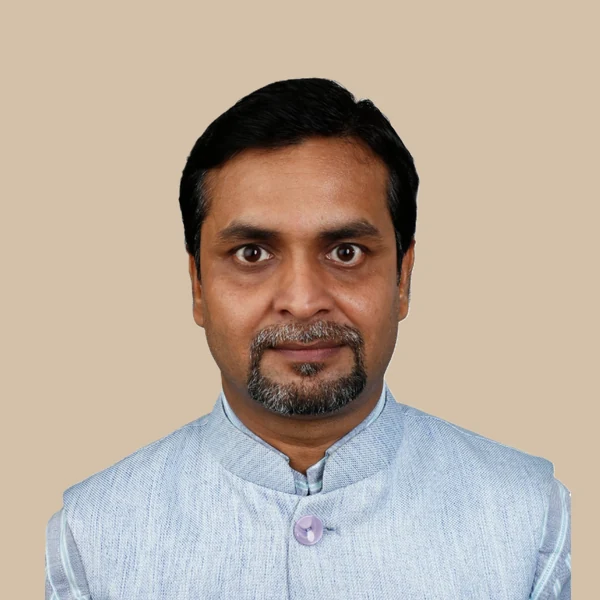
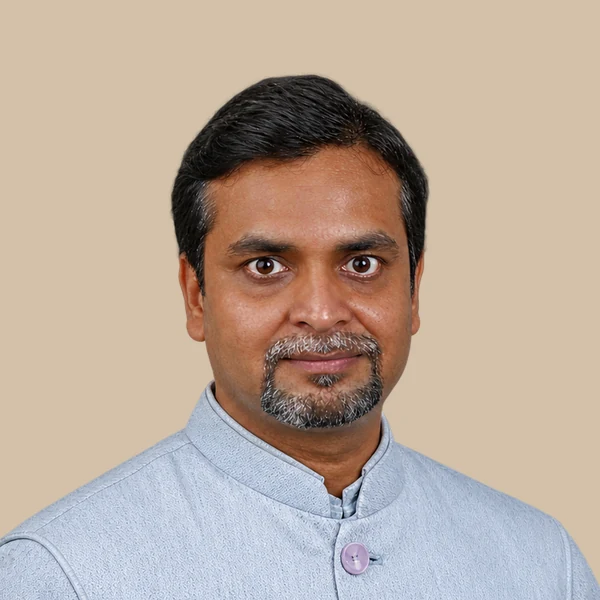
Match strategic growth partner portraits

Changed region(s): [[0.0, 0.12, 1.0, 1.0]]

diff --git a/tools/team/photos.py b/tools/team/photos.py
@@ -37,7 +37,8 @@ CROPS = []
 TUNE = {"rahul-hingmire": (0.92, 0.0, 0.0),
         "sakshay-upadhyay": (1.12, 0.0, 0.0), "karan-shah": (1.08, 0.0, 0.0), "mehak-gupta": (0.78, 0.0, 0.0),
         "dhwani-joshi": (2.4, 0.09, 0.0), "dale-galbano": (1.15, 0.0, 0.0), "sneha-lakra": (1.1, 0.0, 0.0),
-        "siddarth-menon": (1.08, 0.0, 0.0)}
+        "siddarth-menon": (1.08, 0.0, 0.0),
+        "s-robin": (1.0, -0.011, 0.001), "sandeep-agrawal": (1.055, 0.0, 0.012)}
 # Where the chin/neck sits, as a share of the height below the crown, when the silhouette can't show it
 NECK = {"monica-gupta": 0.31, "mehak-gupta": 0.30}
 
